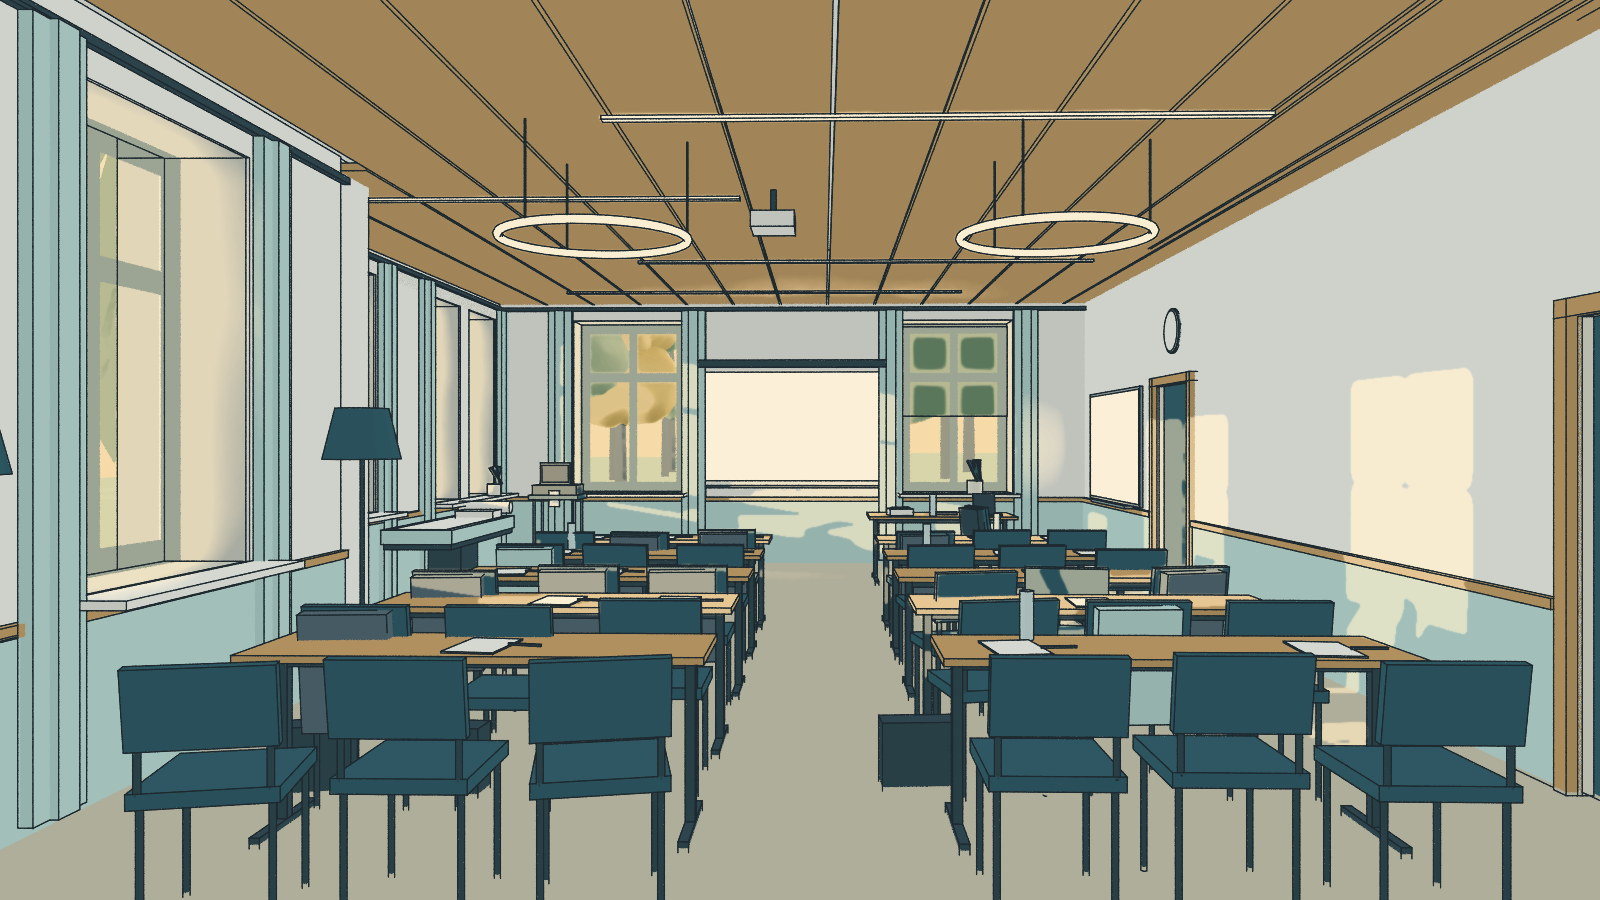
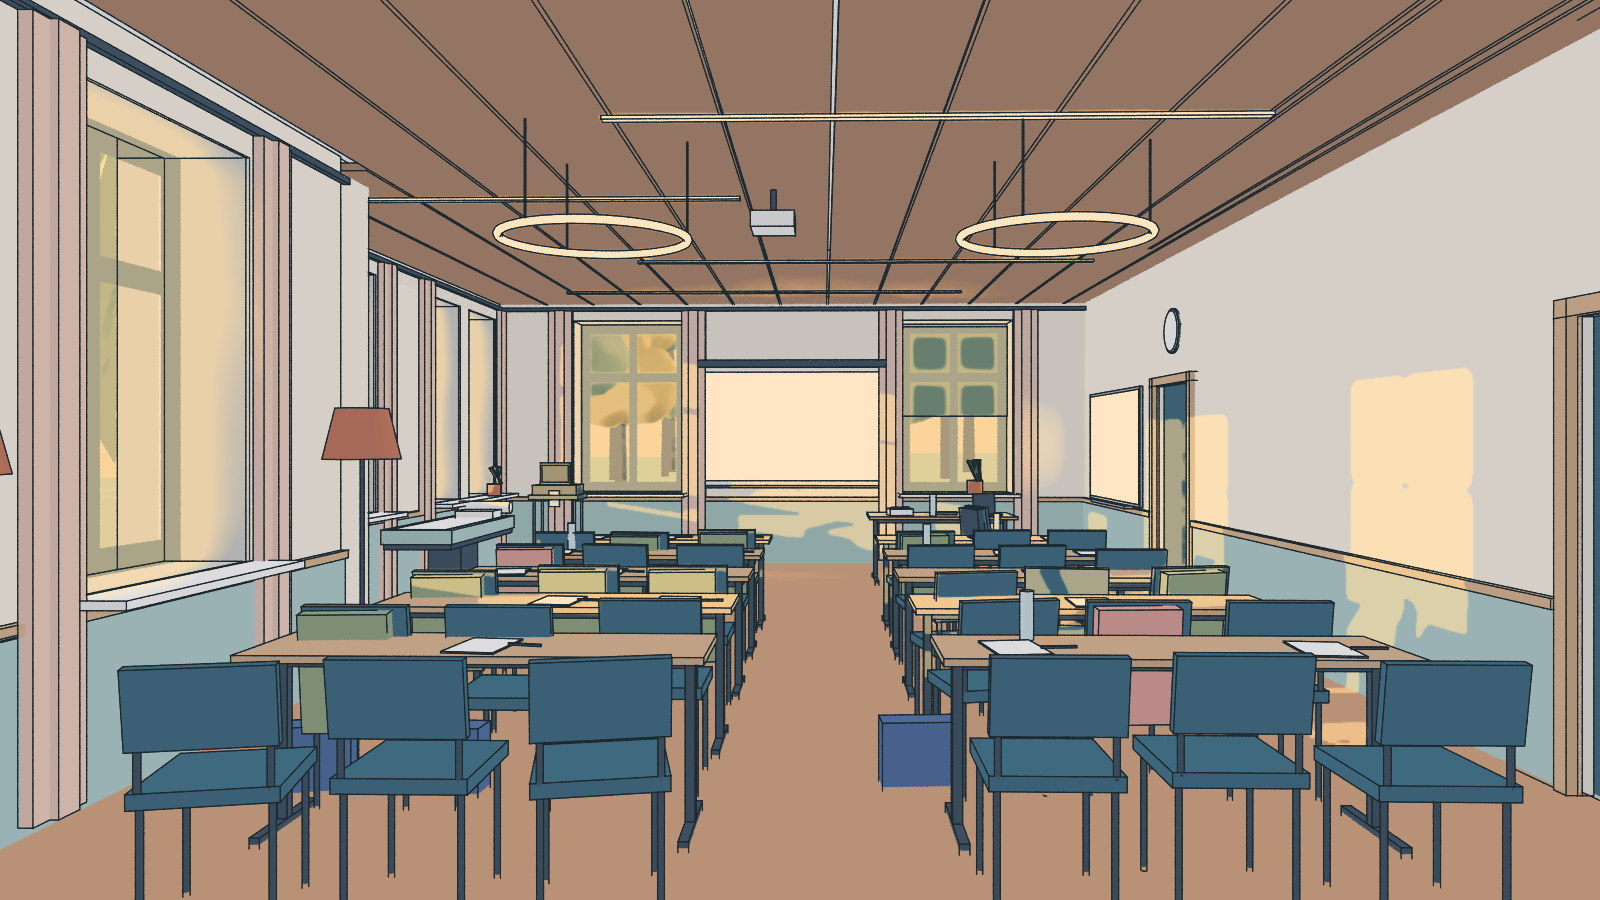
LEHRSAAL: eigenes Farbdesign „Morgen" (Sonne Pfirsich, Schatten kühles Blau, Parkett, Akzente), Doku je Raum eigenes Design

diff --git a/gen/blender/szene_lehrsaal.py b/gen/blender/szene_lehrsaal.py
@@ -38,15 +38,19 @@ REIHEN_X = (5.0, 6.2, 7.4, 8.6, 9.8)
 BLOECKE = ((1.35, 3.15), (4.05, 5.85))
 TISCH_T, TISCH_H = 0.5, 0.74
 
-# Lokalfarben (ART_BIBLE §2, Zeile Lehrsaal): Wand Papier, Sockel Mint mit Holzleiste, Linoleum warm, Holz für Tische
-# und die Lattendecke, Stühle Petrol, Gestelle Tinte. Rost kommt im Raum nicht vor (das eine Objekt ist die rote Klemme
-# an der Figur Jonas). Kobalt nur in der Linealschachtel. Leinwand und Whiteboard wie EKG-Papier.
+# Lokalfarben „Morgen" (vom Nutzer gewählt 25.10.2026 aus drei Proben; Vorlagen: Lofi-Zimmer im Morgenlicht, Ligne claire,
+# Foto des Saals; ART_BIBLE §2 nur als Ausgangspunkt): Wand warmes Papier, Sockel Salbei mit Holzleiste, Parkett Honig-Eiche,
+# Lattendecke dunkler als der Boden (rahmt das Bild oben), Tische helles Holz, Stühle Petrol, Gestelle Tinte. Akzente:
+# Vorhänge Pfirsich, Lampenschirme und Töpfe Terrakotta, Pflanzen Tannengrün, Jacken Oliv und Koralle (Senf bleibt Jonas), Taschen Blau und
+# Pflaume. Kobalt nur in der Linealschachtel. Leinwand und Whiteboard wie EKG-Papier. Das Licht macht die Stimmung: Sonne
+# warm, alles ohne Sonne kühl (KAMERA `schattenfarbe`), nicht nur dunkler.
 PALETTE = {
-    "ls_wand": "#F7F1E4", "ls_sockel": "#BFD9CF", "ls_boden": "#C9BDA2", "ls_decke": "#C99A5B", "ls_holz": "#C99A5B",
-    "ls_petrol": "#2C5560", "ls_dunkel": "#2C3E46", "ls_metall": "#8A9598", "ls_papier": "#F7F1E4", "ls_mint": "#BFD9CF",
-    "ls_vorhang": "#BFD9CF", "ls_leinwand": "#F7F1E4", "ls_projektion": "#FFF8F4", "ls_tafel": "#FFF8F4",
+    "ls_wand": "#F6E8CF", "ls_sockel": "#A8C2B4", "ls_boden": "#C99260", "ls_decke": "#A9774E", "ls_holz": "#D2A673",
+    "ls_petrol": "#2C5560", "ls_dunkel": "#2C3E46", "ls_metall": "#8A9598", "ls_papier": "#F7F1E4", "ls_mint": "#A8C2B4",
+    "ls_vorhang": "#EBC3A6", "ls_leinwand": "#F7F1E4", "ls_projektion": "#FFF8F4", "ls_tafel": "#FFF8F4",
     "ls_kobalt": "#2F5DA8", "ls_leuchte": "#FBF6EA", "ls_glas": "#1E2A30", "ls_flasche": "#D6E4DD",
-    "ls_pflanze": "#2C5560", "ls_topf": "#EFE6D3", "ls_jacke": "#52636A", "ls_jacke2": "#BFD9CF",
+    "ls_pflanze": "#2F5A45", "ls_topf": "#C2683F", "ls_jacke": "#8E9F6B", "ls_jacke2": "#E39A86",
+    "ls_stuhl": "#2E5E6B", "ls_lampe": "#C2683F", "ls_tasche": "#3F5F8C", "ls_tasche2": "#7A4E6E",
 }
 OHNE_LINIE = set()
 OHNE_SCHATTIERUNG = {"ls_projektion", "ls_tafel", "ls_leuchte", "ls_glas"}
@@ -54,7 +58,8 @@ OHNE_SCHATTIERUNG = {"ls_projektion", "ls_tafel", "ls_leuchte", "ls_glas"}
 # Spielkamera: hinten im Mittelgang, Augenhöhe 1,55, Blick zur Leinwand. Sonne 08:10 Anfang November (47° N): Azimut 126°,
 # Höhe 9° — sie steht fast senkrecht vor der Südostfront und legt lange Lichtbahnen über Tische, Boden und Flurwand.
 KAMERA = dict(ort=(14.05, 3.6, 1.55), ziel=(GIEBEL, 3.3, 1.45), brennweite=24, sonne=(126.0, 9.0),
-              licht="#F8E7BF", anteil=0.55, himmel=["#DCE9EA", "#E6EFEE", "#EAF1F0"], schatten=0.2,
+              licht="#FFD9A3", anteil=0.6, himmel=["#9EC3E0", "#C9DCE6", "#F2D2B0"],
+              schatten=0.24, schattenfarbe="#6F7FB0",   # ohne Sonne: ein Viertel zum kühlen Blau (Lofi-Vorlagen), Sonne Pfirsich
               linien_nur=("Trakt A EG", SAMMLUNG), ausbau=(SAMMLUNG,), ohne_scheiben=True,
               sonne_staerke=80.0)   # bei 9° trifft die Sonne Tische und Boden streifend: stark genug, dass jede besonnte Fläche zählt
 
@@ -234,11 +239,11 @@ def ausbau(h):
         """Seminarstuhl: Sitz und Lehne Petrol, Gestell Tinte. Lehne auf der lokalen +y-Seite; dreh −90° = Lehne nach +x."""
         a = math.radians(dreh); c, s_ = math.cos(a), math.sin(a)
         P = lambda dx, dy, z: (x + dx * c - dy * s_, y + dx * s_ + dy * c, z)
-        kiste((0.44, 0.44, 0.05), P(0, 0, 0.455), "ls_petrol", dreh=dreh, fase=0.015, name=name + " Sitz")
+        kiste((0.44, 0.44, 0.05), P(0, 0, 0.455), "ls_stuhl", dreh=dreh, fase=0.015, name=name + " Sitz")
         for dx in (-0.19, 0.19):
             for dy in (-0.19, 0.19):
                 zyl(0.011, 0.43, P(dx, dy, 0.215), "ls_dunkel", v=8, name=name + " Bein")
-        kiste((0.44, 0.035, 0.26), P(0, 0.23, 0.74), "ls_petrol", dreh=dreh, kipp=-8, fase=0.012, name=name + " Lehne")
+        kiste((0.44, 0.035, 0.26), P(0, 0.23, 0.74), "ls_stuhl", dreh=dreh, kipp=-8, fase=0.012, name=name + " Lehne")
         for dx in (-0.19, 0.19):
             zyl(0.011, 0.3, P(dx, 0.21, 0.62), "ls_dunkel", v=8, name=name + " Holm")
         if jacke:
@@ -256,7 +261,7 @@ def ausbau(h):
                 yp = ya + 0.3 + 0.6 * p
                 raus = zr.choice((0.0, 0.0, 0.05, 0.12, 0.25)); dreh = -90 + zr.choice((0, 0, 0, -8, 6, 12))
                 jacke = zr.choice((None,) * 9 + ("ls_jacke", "ls_jacke2"))
-                tasche = zr.choice((None,) * 8 + ("ls_dunkel", "ls_petrol"))
+                tasche = zr.choice((None,) * 8 + ("ls_tasche", "ls_tasche2"))
                 if r == len(REIHEN_X) - 1: tasche = None    # keine dunklen Klötze am unteren Bildrand (ART_BIBLE §3.3)
                 stuhl(xm + TISCH_T / 2 + 0.3 + raus, yp, dreh, jacke=jacke, tasche=tasche)
                 if zr.random() < 0.55:                     # Block und Stift am Platz
@@ -269,4 +274,4 @@ def ausbau(h):
     for (x, y) in ((7.75, 0.85), (10.85, 0.85)):
         zyl(0.16, 0.02, (x, y, 0.01), "ls_dunkel", v=20, name="LS Stehleuchte Fuss")
         zyl(0.012, 1.45, (x, y, 0.74), "ls_dunkel", v=8, name="LS Stehleuchte Stange")
-        kegelstumpf(0.22, 0.15, 0.3, (x, y, 1.6), "ls_petrol", v=24, name="LS Stehleuchte Schirm")
+        kegelstumpf(0.22, 0.15, 0.3, (x, y, 1.6), "ls_lampe", v=24, name="LS Stehleuchte Schirm")

diff --git a/gen/blender/haus_blockout.py b/gen/blender/haus_blockout.py
@@ -1998,7 +1998,7 @@ def komposit(kamera_name, ziel, k, mit_sonne=True, max_kb=300):
     lade = lambda n: np.asarray(Image.open(BAU + f"{kamera_name}{stil_endung()}_{n}.png").convert("RGB")).astype(np.float32) / 255
     flach = lade("flat"); t = ko.tinte(lade("lines"))[..., None]
     s = stil() or {}
-    schattenfarbe = ko.hexc(s.get("schatten", "#2C5560")); tinte = ko.hexc(s.get("tinte", "#1E2A30"))
+    schattenfarbe = ko.hexc(s.get("schatten", k.get("schattenfarbe", "#2C5560"))); tinte = ko.hexc(s.get("tinte", "#1E2A30"))
     mit_sonne = mit_sonne and s.get("mit_sonne", True)
     if "duoton" in s:                                  # Blaue Stunde: Helligkeit der Lokalfarbe auf eine Blau-Skala, ein Rest Eigenfarbe;
         pal = dict(s["palette"], **{f"himmel_{i}": f for i, f in enumerate(k["himmel"])})   # leuchtende Flächen behalten ihre Farbe

diff --git a/docs/raeume/lehrsaal.md b/docs/raeume/lehrsaal.md
@@ -143,16 +143,24 @@ Zonen überlappen nicht (§7.6): `jonas` und `liege` getrennt wie `herrk` und `t
   Höhe 9°. Sie steht fast senkrecht vor der Südostfront: **lange Lichtbahnen von links** über Tische, Stuhllehnen und
   die Flurwand (dort als Fensterbilder bis gut 2 m Höhe). Deckenleuchten aus, Beamer an. Die Giebelfenster (Südwest)
   bekommen keine Sonne: vorn kühles Licht, links warmes, wie in den Vorlagen des Nutzers.
-- **Farben** (ART_BIBLE §2, eigene Verteilung je Raum; im Skript `PALETTE`, Namen `ls_…`):
+- **Farben „Morgen"** (eigenes Design dieses Raums, vom Nutzer am 25.10.2026 aus drei Proben gewählt; Vorlagen:
+  Lofi-Zimmer im Morgenlicht, Ligne claire, Foto des Saals; ART_BIBLE §2 nur als Ausgangspunkt). Im Skript `PALETTE`,
+  Namen `ls_…`; die Stimmung macht das Licht an der Kamera: **Sonne Pfirsich** `#FFD9A3` (Anteil 0,6), **alles ohne
+  Sonne ein Viertel zum kühlen Blau** `#6F7FB0` (`schattenfarbe`, `schatten` 0,24) statt nur dunkler.
 
-| Wand | Sockel | Boden | Decke | Möbel | Rost (das eine Objekt) |
+| Wand | Sockel | Boden | Decke | Möbel | Akzente |
 |---|---|---|---|---|---|
-| Papier `#F7F1E4` | Mint `#BFD9CF` (bis 0,8 m, unter der Brüstung, Holzleiste) | Linoleum warm `#C9BDA2` | Holzlatten `#C99A5B` | Tische Holz, Stühle Petrol, Gestelle Tinte, Liege mit Mint-Bezug, Vorhänge Mint | **rote Elektrodenklemme** am rechten Arm des Freiwilligen (Figur) |
+| warmes Papier `#F6E8CF` | Salbei `#A8C2B4` (bis 0,8 m, unter der Brüstung, Holzleiste) | Parkett Honig-Eiche `#C99260` | Holzlatten `#A9774E`, dunkler als der Boden (rahmt das Bild oben) | Tische helles Holz `#D2A673`, Stühle Petrol `#2E5E6B`, Gestelle Tinte, Liege mit Salbei-Bezug | Vorhänge Pfirsich `#EBC3A6`, Lampenschirme und Töpfe Terrakotta `#C2683F`, Pflanzen Tannengrün `#2F5A45`, Jacken Oliv `#8E9F6B` und Koralle `#E39A86`, Taschen Blau `#3F5F8C` und Pflaume `#7A4E6E` |
+
+  Erste Fassung (bis 25.10.2026): Papier, Mint, Linoleum `#C9BDA2`, Schatten nur dunkler Richtung Petrol — dem Nutzer
+  zu blass. Rot bleibt der Elektrodenklemme am rechten Arm des Freiwilligen (Figur); Terrakotta an Lampen und Töpfen ist
+  bewusst wärmer und matter.
 
   Draußen: der echte Blick aus dem Haus (Park, Linden im Herbstlaub), flach und ohne Linie; Scheiben und Gardinen
   sind im Innenrender aus. Später als Fensterblick-Tafel (KRANKENHAUS „Bausteine" Punkt 4). Leinwand `#FFF8F4` (wie
   EKG-Papier, die Kurve kommt aus dem Code). Kobaltblau nur an Dr. Wieser und in der Linealschachtel; Senfgelb nur
-  an Jonas; Pflanzen Petrol (Laub ist nur außen).
+  an Jonas (deshalb Jacken Oliv, nicht Senf); Pflanzen Tannengrün (Laub ist nur außen). Himmel `#9EC3E0` → `#F2D2B0`
+  (Blau oben, Pfirsich am Horizont), sichtbar erst mit der Fensterblick-Tafel.
 
 ## 7. Kamera und Ebenen
 

diff --git a/docs/ART_BIBLE.md b/docs/ART_BIBLE.md
@@ -76,12 +76,14 @@ Magenta `#C2185B` bleibt der Oberfläche vorbehalten (Zirkel, Messwerte, Signal 
 in keinem Raumbild vor. Rot-Rosa und reines Schwarz gehören dem Millimeterpapier und der Kurve.
 
 ### Je Raum eine eigene Hauptkombination (10.10.2026)
+**Seit 25.10.2026 (Nutzer):** Jeder Raum bekommt sein eigenes Design aus Vorlagen des Nutzers, in Proben verglichen;
+diese Tabelle ist der Ausgangspunkt, keine Vorschrift. Die gewählten Farben stehen in der Raumbeschreibung (`docs/raeume/`).
 Alle Räume teilen Sand/Papier/Mint/Petrol/Tinte/Holz, aber jeder Raum hat eine eigene Verteilung,
 sonst sind sie nicht zu unterscheiden:
 
 | Raum | Wand | Sockel | Boden | Möbel | Rost (das eine Objekt) |
 |---|---|---|---|---|---|
-| Lehrsaal (08:10, Sonne von links) | Papier | Mint | Linoleum warm | Holz-Klapptische in Reihen, Holz-Lattendecke, Petrol-Stühle und -Wagen, Liege mit Mint-Bezug, Vorhänge Mint | rote Elektrodenklemme am rechten Arm des Freiwilligen (`docs/raeume/lehrsaal.md`) |
+| Lehrsaal (08:10, Sonne von links) — eigenes Design „Morgen" (25.10.2026): Sonne Pfirsich, Schatten kühles Blau | warmes Papier | Salbei | Parkett Honig-Eiche | helle Holztische in Reihen, dunklere Lattendecke, Petrol-Stühle und -Wagen; Akzente Pfirsich (Vorhänge), Terrakotta (Lampen, Töpfe), Tannengrün (Pflanzen) | rote Elektrodenklemme am rechten Arm des Freiwilligen (`docs/raeume/lehrsaal.md` §6) |
 | Aufnahme (06:40, warm) | Sand | Mint | Linoleum warm | Holz-Tresen, Petrol-Polster der Bank, Geräte Tinte | Betablocker-Schachtel in Herrn Baums Tüte (die Tüte ist sein Gegenstand, keine Klickzone mit Fortschritt — `KONZEPT.md` §1.3) |
 | Monitorzimmer (09:15, kühl) | Mint hell | Sand | Linoleum kühl | Papier-Tischplatte auf Petrol-Blöcken, Holz-Aktenschrank | Dr. Falks Zirkel |
 

diff --git a/docs/STAND.md b/docs/STAND.md
@@ -4,6 +4,18 @@ Diese Datei ist der Einstieg für die nächste Sitzung. Der Stand liegt auf dem 
 `claude/stil-ligne-claire` (gepusht). Prüfung: `python3 gen/kunst.py && python3 tools/baue.py &&
 node tools/durchlauf.mjs "$PWD/bau/nachtdienst.html" "$PWD/bau/durchlauf"` → „Alle Prüfungen bestanden."
 
+## Fertig (25.10.2026): Eigenes Farbdesign „Morgen" für den Lehrsaal
+
+- Nutzer fand die Farben zu blass, schickte Vorlagen (Lofi-Zimmer, Ligne claire, Foto des Saals) und wünscht sich
+  **für jeden Raum ein eigenes Design**; ART_BIBLE §2 ist nur der Ausgangspunkt (dort vermerkt). Drei Proben gerendert
+  („Morgen", „Saal" mit roten Stühlen, „Pastell"), gewählt **„Morgen" mit Petrol-Stühlen**, nur für den Lehrsaal.
+- `szene_lehrsaal.py`: neue Palette (warmes Papier, Salbei, Parkett Honig-Eiche, dunklere Lattendecke, Akzente Pfirsich,
+  Terrakotta, Tannengrün, Oliv, Koralle) und eigene Materialien `ls_stuhl`, `ls_lampe`, `ls_tasche`, `ls_tasche2`. Kamera:
+  Sonne Pfirsich, alles ohne Sonne 24 % zum kühlen Blau (`schattenfarbe`, neu im Komposit von `haus_blockout.py`).
+  Jacken Oliv statt Senf (Senf bleibt Jonas). Probe `docs/haus/probe_lehrsaal.jpg` neu; Doku `lehrsaal.md` §6, ART_BIBLE §2,
+  README. Offen: Sonne erreicht im Saal nur kleine Flecken; große Lichtbahnen wären eine Lichtfrage (nicht Palette).
+  Für die Ebenen-Pipeline: `komposit.py` muss dieselbe kühle Schattenstufe nehmen wie das Haus-Komposit.
+
 ## Fertig (25.10.2026): Lehrsaal als Saal im Haus (erster Ausbau nach „Ein Haus, aus Bausteinen")
 
 - Nutzer schickte ein Foto eines Seminarsaals (Fensterfront, Tischreihen, Holzdecke) und drei Lofi-Illustrationen

diff --git a/gen/blender/README.md b/gen/blender/README.md
@@ -180,7 +180,8 @@ ruft `ausbau` beim `bauen` auf (Sammlung „Ausbau Lehrsaal"). Körper nur als N
 
 Kamera-Schlüssel für Innenräume: `linien_nur` (Linien und, im Sonnen-Durchgang, Schattenwerfer), `ausbau` (sichtbare
 Ausbau-Sammlungen; ohne Angabe keine), `ohne_scheiben` (Scheiben, Gardinen, offene Glasflügel aus: der Blick hinaus ist
-das Haus selbst, später eine Tafel), `sonne_staerke` (flache Sonne: streifend getroffene Flächen über die Schwelle).
+das Haus selbst, später eine Tafel), `sonne_staerke` (flache Sonne: streifend getroffene Flächen über die Schwelle), `schattenfarbe` (Farbe, zu der alles ohne
+Sonne um den Anteil `schatten` gezogen wird; Lehrsaal kühles Blau, Standard Petrol). Farben je Raum stehen im Ausbau-Skript.
 Die alte Einzelszene (Seminarraum, `ebenen.py lehrsaal`) läuft nicht mehr; ihre Ebenen in `art/szenen/lehrsaal/`
 bleiben, bis Hausräume durch die Ebenen-Pipeline gehen (Mittelgrund, `schirme.json`, `hitboxes.json`, Figuren).
 
